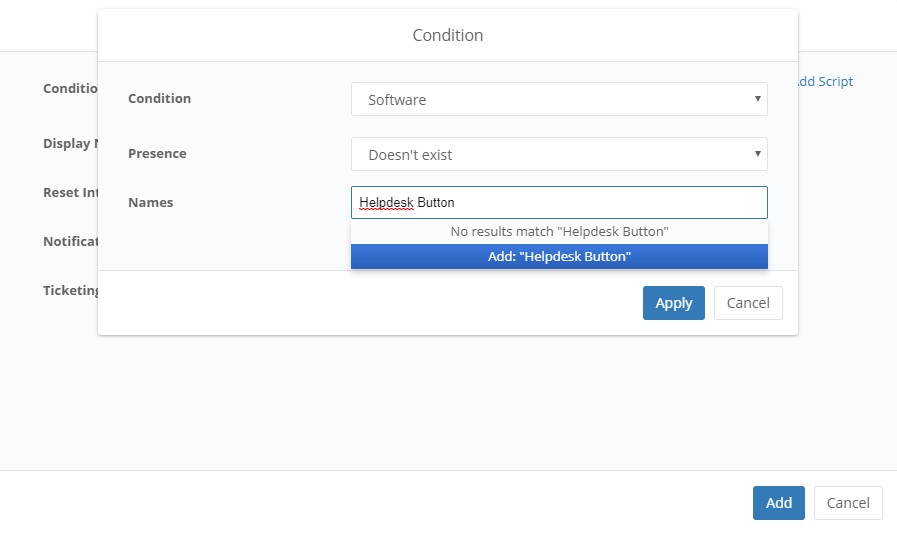
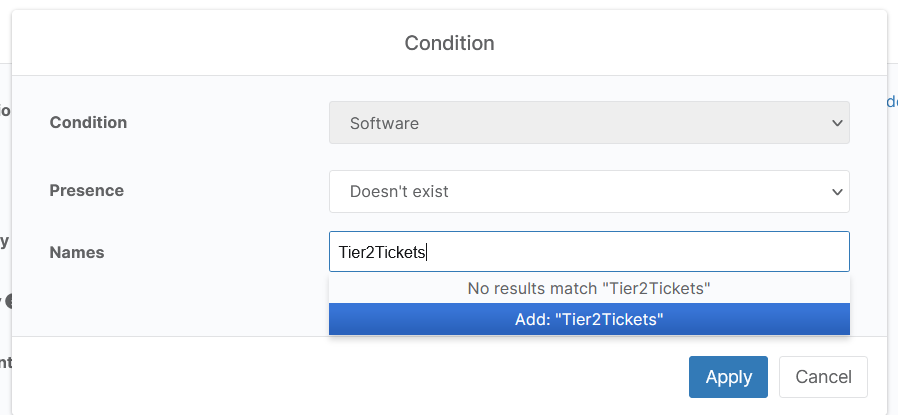
Update Ninja RMM documentation

diff --git a/content/deployment/ninjarmm.rst b/content/deployment/ninjarmm.rst
@@ -24,7 +24,7 @@ The script need only be a single line like this:
 
 	msiexec /i "http://example.com/downloads/buttonInst.msi" /passive /norestart WRAPPED_ARGUMENTS='"/launchkey=4 /iconname=""PC Solutions Support"""'
 	
-Put in your own url in place of buttonInst.msi, in addition to a custom launchkey, and iconname.
+Put in your own url in place of buttonInst.msi, in addition to a custom launchkey, and iconname. Remember that your `Download and Deploy  <https://account.helpdeskbuttons.com>/builds>`_ page has a magic link for you. 
 
 For more information about the parameters, check out our `Installation Guide <https://docs.tier2tickets.com/content/general/installation/>`_
 
@@ -44,7 +44,7 @@ Create or Select a configuration to use.
 
 .. image:: images/NINJA06-Create-Configuration.png
 
-Click Add a Condition, select a condition. Now select Software from the Conditions list, Doesn't exist from the Presence list, and set the Name to Helpdesk Button. **Be sure to click Add "Helpdesk Button"**
+Click Add a Condition, select a condition. Now select Software from the Conditions list, Doesn't exist from the Presence list, and set the Name to Helpdesk Button. **Be sure to click Add "Tier2Tickets"**
 
 .. image:: images/NINJA07-Select-Condition-Settings.png
 
@@ -58,3 +58,4 @@ Click Save to save the configuration.
 
 
 Thanks to David Bell at `preemptIT <https://www.preemptit.com>`_ for his great assistance creating this deployment document.
+Thanks to 'Gaispace <https://giaspace.com>'_ for help updating the docs. 
